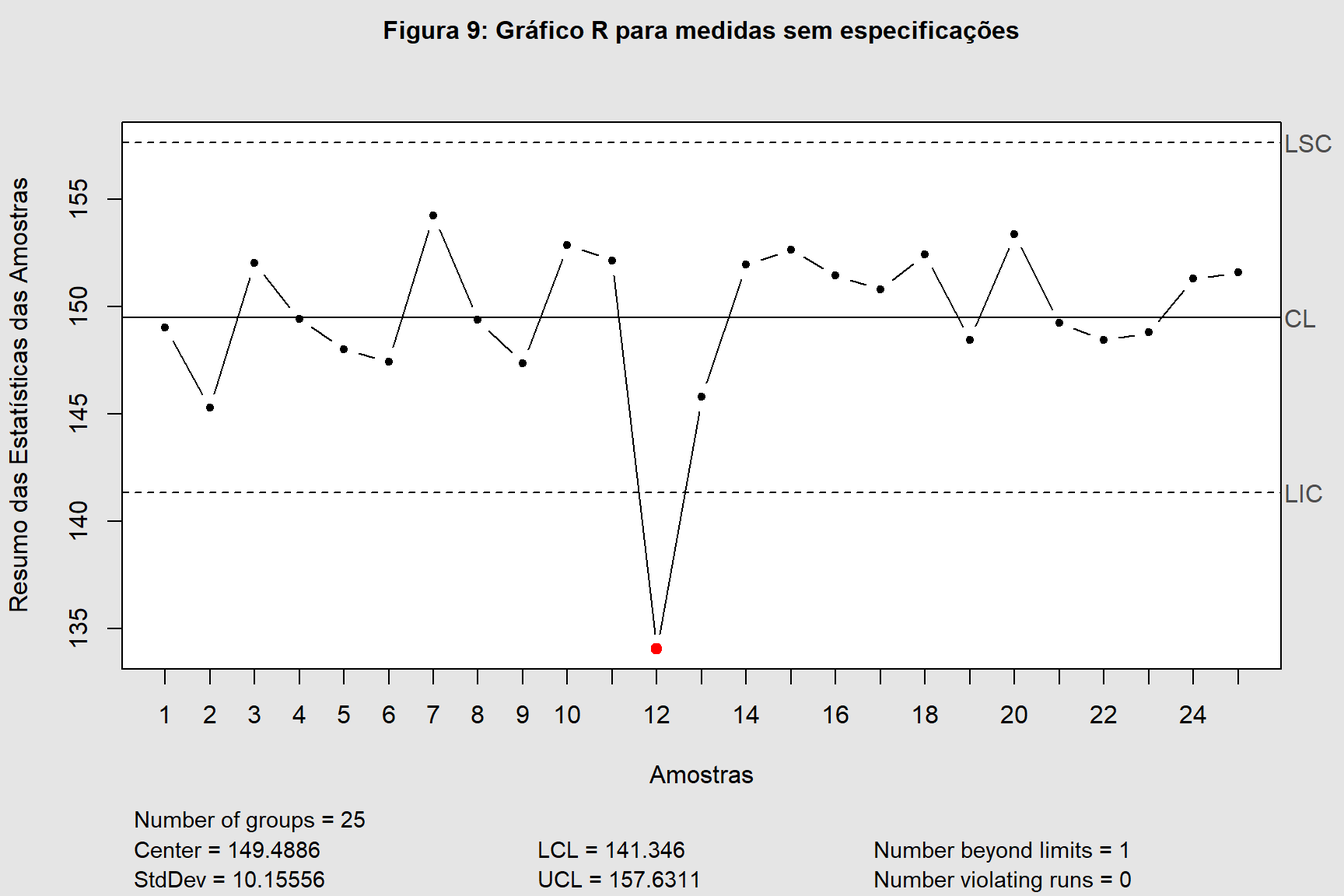
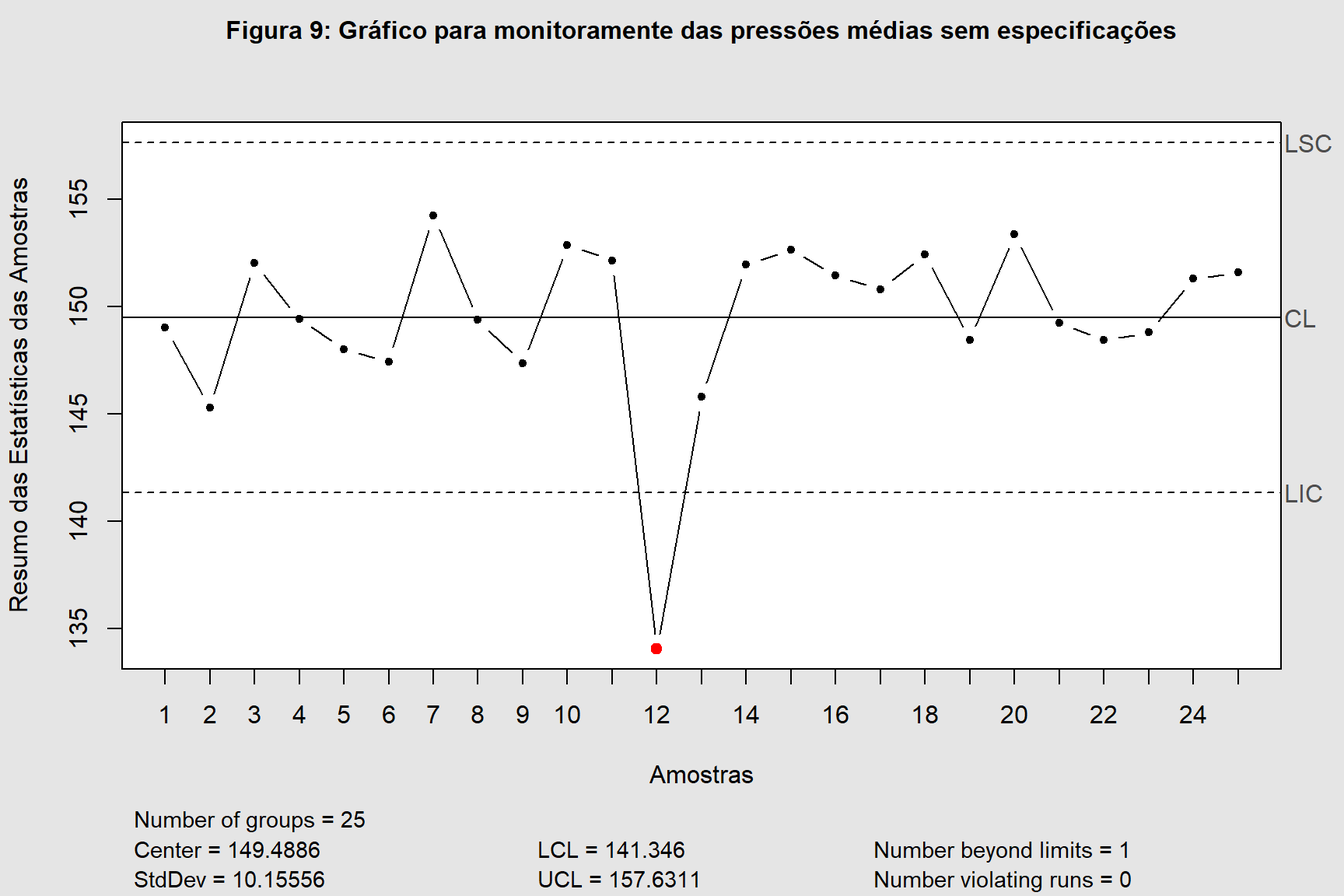
Tradução dos enunciados das questões 6 e 7.

Changed region(s): [[0.1562, 0.0, 0.875, 0.0625]]

diff --git a/L2.html b/L2.html
@@ -109,13 +109,11 @@ pre > code.sourceCode > span > a:first-child::before { text-decoration: underlin
   </ul></li>
   <li><a href="#exercício-4" id="toc-exercício-4" class="nav-link" data-scroll-target="#exercício-4">Exercício 4</a>
   <ul>
-  <li><a href="#item-4a." id="toc-item-4a." class="nav-link" data-scroll-target="#item-4a.">Item 4a.</a></li>
-  <li><a href="#item-4b." id="toc-item-4b." class="nav-link" data-scroll-target="#item-4b.">Item 4b.</a></li>
+  <li><a href="#solução-3" id="toc-solução-3" class="nav-link" data-scroll-target="#solução-3">Solução</a></li>
   </ul></li>
   <li><a href="#exercício-5" id="toc-exercício-5" class="nav-link" data-scroll-target="#exercício-5">Exercício 5</a>
   <ul>
-  <li><a href="#item-5a." id="toc-item-5a." class="nav-link" data-scroll-target="#item-5a.">Item 5a.</a></li>
-  <li><a href="#item-5b." id="toc-item-5b." class="nav-link" data-scroll-target="#item-5b.">Item 5b.</a></li>
+  <li><a href="#solução-4" id="toc-solução-4" class="nav-link" data-scroll-target="#solução-4">Solução</a></li>
   </ul></li>
   <li><a href="#exercício-6" id="toc-exercício-6" class="nav-link" data-scroll-target="#exercício-6">Exercício 6</a></li>
   <li><a href="#exercício-7" id="toc-exercício-7" class="nav-link" data-scroll-target="#exercício-7">Exercício 7</a></li>
@@ -335,7 +333,7 @@ pre > code.sourceCode > span > a:first-child::before { text-decoration: underlin
 <div class="cell" data-layout-align="center">
 <details>
 <summary>Mostrar Código</summary>
-<div class="sourceCode cell-code" id="cb8"><pre class="sourceCode r code-with-copy"><code class="sourceCode r"><span id="cb8-1"><a href="#cb8-1" aria-hidden="true" tabindex="-1"></a>garrafas <span class="ot">&lt;-</span> <span class="fu">read.csv2</span>(<span class="st">"TabQ3L2.csv"</span>)</span>
+<div class="sourceCode cell-code" id="cb8"><pre class="sourceCode r code-with-copy"><code class="sourceCode r"><span id="cb8-1"><a href="#cb8-1" aria-hidden="true" tabindex="-1"></a>garrafas <span class="ot">&lt;-</span> <span class="fu">read.csv2</span>(<span class="st">"garrafas.csv"</span>)</span>
 <span id="cb8-2"><a href="#cb8-2" aria-hidden="true" tabindex="-1"></a></span>
 <span id="cb8-3"><a href="#cb8-3" aria-hidden="true" tabindex="-1"></a><span class="co"># Gráficos sem especificação</span></span>
 <span id="cb8-4"><a href="#cb8-4" aria-hidden="true" tabindex="-1"></a>qcc<span class="sc">::</span><span class="fu">qcc</span>(garrafas[,<span class="sc">-</span><span class="dv">1</span>], <span class="at">type =</span> <span class="st">"S"</span>, <span class="at">plot =</span> F)<span class="sc">|&gt;</span></span>
@@ -355,7 +353,7 @@ pre > code.sourceCode > span > a:first-child::before { text-decoration: underlin
 <div class="sourceCode cell-code" id="cb9"><pre class="sourceCode r code-with-copy"><code class="sourceCode r"><span id="cb9-1"><a href="#cb9-1" aria-hidden="true" tabindex="-1"></a>qcc<span class="sc">::</span><span class="fu">qcc</span>(garrafas[,<span class="sc">-</span><span class="dv">1</span>], <span class="at">type =</span> <span class="st">"xbar"</span>, <span class="at">plot =</span> F)<span class="sc">|&gt;</span></span>
 <span id="cb9-2"><a href="#cb9-2" aria-hidden="true" tabindex="-1"></a>  <span class="fu">plot</span>(<span class="at">label.limits =</span> <span class="fu">c</span>(<span class="st">"LIC"</span>, <span class="st">"LSC"</span>), <span class="at">xlab =</span> <span class="st">"Amostras"</span>,</span>
 <span id="cb9-3"><a href="#cb9-3" aria-hidden="true" tabindex="-1"></a>       <span class="at">ylab =</span> <span class="st">"Resumo das Estatísticas das Amostras"</span>,</span>
-<span id="cb9-4"><a href="#cb9-4" aria-hidden="true" tabindex="-1"></a>       <span class="at">title =</span> <span class="st">"Figura 9: Gráfico R para medidas sem especificações"</span>)</span></code><button title="Copy to Clipboard" class="code-copy-button"><i class="bi"></i></button></pre></div>
+<span id="cb9-4"><a href="#cb9-4" aria-hidden="true" tabindex="-1"></a>       <span class="at">title =</span> <span class="st">"Figura 9: Gráfico para monitoramente das pressões médias sem especificações"</span>)</span></code><button title="Copy to Clipboard" class="code-copy-button"><i class="bi"></i></button></pre></div>
 </details>
 <div class="cell-output-display">
 <div class="quarto-figure quarto-figure-center">
@@ -375,7 +373,7 @@ pre > code.sourceCode > span > a:first-child::before { text-decoration: underlin
 <div class="sourceCode cell-code" id="cb10"><pre class="sourceCode r code-with-copy"><code class="sourceCode r"><span id="cb10-1"><a href="#cb10-1" aria-hidden="true" tabindex="-1"></a>qcc<span class="sc">::</span><span class="fu">qcc</span>(garrafas[<span class="sc">-</span><span class="dv">12</span>, <span class="sc">-</span><span class="dv">1</span>], <span class="at">type =</span> <span class="st">"xbar"</span>, <span class="at">plot =</span> F)<span class="sc">|&gt;</span></span>
 <span id="cb10-2"><a href="#cb10-2" aria-hidden="true" tabindex="-1"></a>  <span class="fu">plot</span>(<span class="at">label.limits =</span> <span class="fu">c</span>(<span class="st">"LIC"</span>, <span class="st">"LSC"</span>), <span class="at">xlab =</span> <span class="st">"Amostras"</span>,</span>
 <span id="cb10-3"><a href="#cb10-3" aria-hidden="true" tabindex="-1"></a>       <span class="at">ylab =</span> <span class="st">"Resumo das Estatísticas das Amostras"</span>,</span>
-<span id="cb10-4"><a href="#cb10-4" aria-hidden="true" tabindex="-1"></a>       <span class="at">title =</span> <span class="st">"Figura 10: Gráfico R para medidas sem especificações"</span>)</span></code><button title="Copy to Clipboard" class="code-copy-button"><i class="bi"></i></button></pre></div>
+<span id="cb10-4"><a href="#cb10-4" aria-hidden="true" tabindex="-1"></a>       <span class="at">title =</span> <span class="st">"Figura 10: Gráfico para monitoramente das pressões médias sem especificações"</span>)</span></code><button title="Copy to Clipboard" class="code-copy-button"><i class="bi"></i></button></pre></div>
 </details>
 <div class="cell-output-display">
 <div class="quarto-figure quarto-figure-center">
@@ -394,35 +392,136 @@ pre > code.sourceCode > span > a:first-child::before { text-decoration: underlin
 <li>O tempo de entrega do pedido segue distribuição normal?</li>
 <li>Construa gráficos de controle e analise-os. Caso não exibam controle estatístico, revise os limites de controle tentativos.</li>
 </ol>
-<p><strong>SOLUÇÃO:</strong></p>
-<section id="item-4a." class="level4">
-<h4 class="anchored" data-anchor-id="item-4a.">Item 4a.</h4>
+<section id="solução-3" class="level2">
+<h2 class="anchored" data-anchor-id="solução-3">Solução</h2>
+<div class="tabset-margin-container"></div><div class="panel-tabset">
+<ul class="nav nav-tabs" role="tablist"><li class="nav-item" role="presentation"><a class="nav-link active" id="tabset-3-1-tab" data-bs-toggle="tab" data-bs-target="#tabset-3-1" role="tab" aria-controls="tabset-3-1" aria-selected="true" href="">Item a</a></li><li class="nav-item" role="presentation"><a class="nav-link" id="tabset-3-2-tab" data-bs-toggle="tab" data-bs-target="#tabset-3-2" role="tab" aria-controls="tabset-3-2" aria-selected="false" href="">Item b</a></li></ul>
+<div class="tab-content">
+<div id="tabset-3-1" class="tab-pane active" role="tabpanel" aria-labelledby="tabset-3-1-tab">
 <div class="cell" data-layout-align="center">
+<details>
+<summary>Mostrar Código</summary>
+<div class="sourceCode cell-code" id="cb11"><pre class="sourceCode r code-with-copy"><code class="sourceCode r"><span id="cb11-1"><a href="#cb11-1" aria-hidden="true" tabindex="-1"></a>tempo <span class="ot">&lt;-</span> <span class="fu">read.csv2</span>(<span class="st">"fast-food.csv"</span>)</span>
+<span id="cb11-2"><a href="#cb11-2" aria-hidden="true" tabindex="-1"></a></span>
+<span id="cb11-3"><a href="#cb11-3" aria-hidden="true" tabindex="-1"></a>test <span class="ot">&lt;-</span> <span class="fu">shapiro.test</span>(tempo<span class="sc">$</span>tempo_entrega)</span>
+<span id="cb11-4"><a href="#cb11-4" aria-hidden="true" tabindex="-1"></a></span>
+<span id="cb11-5"><a href="#cb11-5" aria-hidden="true" tabindex="-1"></a>result <span class="ot">&lt;-</span> <span class="fu">cbind</span>(test<span class="sc">$</span>statistic, test<span class="sc">$</span>p.value)</span>
+<span id="cb11-6"><a href="#cb11-6" aria-hidden="true" tabindex="-1"></a><span class="fu">colnames</span>(result) <span class="ot">&lt;-</span> <span class="fu">c</span>(<span class="st">"Estatística"</span>, <span class="st">"p-value"</span>)</span>
+<span id="cb11-7"><a href="#cb11-7" aria-hidden="true" tabindex="-1"></a></span>
+<span id="cb11-8"><a href="#cb11-8" aria-hidden="true" tabindex="-1"></a>result<span class="sc">|&gt;</span></span>
+<span id="cb11-9"><a href="#cb11-9" aria-hidden="true" tabindex="-1"></a>  DT<span class="sc">::</span><span class="fu">datatable</span>(</span>
+<span id="cb11-10"><a href="#cb11-10" aria-hidden="true" tabindex="-1"></a>    <span class="at">caption =</span> <span class="st">"Tabela 2: Resultado do teste de normalidade de Shapiro-Wilk."</span>,</span>
+<span id="cb11-11"><a href="#cb11-11" aria-hidden="true" tabindex="-1"></a>    <span class="at">extensions =</span> <span class="st">'FixedHeader'</span>, <span class="at">rownames =</span> F,</span>
+<span id="cb11-12"><a href="#cb11-12" aria-hidden="true" tabindex="-1"></a>    <span class="at">options =</span> <span class="fu">list</span>(<span class="at">dom =</span> <span class="st">'t'</span>, <span class="at">fixedHeader =</span> F, <span class="at">autoWidth =</span> F,</span>
+<span id="cb11-13"><a href="#cb11-13" aria-hidden="true" tabindex="-1"></a>                   <span class="at">columnDefs =</span> </span>
+<span id="cb11-14"><a href="#cb11-14" aria-hidden="true" tabindex="-1"></a>                     <span class="fu">list</span>(</span>
+<span id="cb11-15"><a href="#cb11-15" aria-hidden="true" tabindex="-1"></a>                       <span class="fu">list</span>(<span class="at">className =</span> <span class="st">'dt-center'</span>, <span class="at">targets =</span> <span class="fu">c</span>(<span class="dv">0</span><span class="sc">:</span><span class="dv">1</span>))))</span>
+<span id="cb11-16"><a href="#cb11-16" aria-hidden="true" tabindex="-1"></a>  )<span class="sc">|&gt;</span></span>
+<span id="cb11-17"><a href="#cb11-17" aria-hidden="true" tabindex="-1"></a>  DT<span class="sc">::</span><span class="fu">formatRound</span>(<span class="at">columns =</span> <span class="fu">c</span>(<span class="dv">0</span><span class="sc">:</span><span class="dv">1</span>), <span class="at">digits =</span> <span class="dv">4</span>, <span class="at">mark =</span> <span class="st">"."</span>, <span class="at">dec.mark =</span> <span class="st">","</span>)</span></code><button title="Copy to Clipboard" class="code-copy-button"><i class="bi"></i></button></pre></div>
+</details>
 <div class="cell-output-display">
 
-<div class="datatables html-widget html-fill-item-overflow-hidden html-fill-item" id="htmlwidget-d408a674e82a832f82cd" style="width:100%;height:auto;"></div>
-<script type="application/json" data-for="htmlwidget-d408a674e82a832f82cd">{"x":{"filter":"none","vertical":false,"extensions":["FixedHeader"],"caption":"<caption>Tabela 2: Resultado do teste de normalidade de Shapiro-Wilk.<\/caption>","data":[[0.966134252954202],[0.439488871198518]],"container":"<table class=\"display\">\n  <thead>\n    <tr>\n      <th>Estatística<\/th>\n      <th>p-value<\/th>\n    <\/tr>\n  <\/thead>\n<\/table>","options":{"dom":"t","fixedHeader":false,"autoWidth":false,"columnDefs":[{"targets":-1,"render":"function(data, type, row, meta) {\n    return type !== 'display' ? data : DTWidget.formatRound(data, 4, 3, \".\", \",\", null);\n  }"},{"targets":0,"render":"function(data, type, row, meta) {\n    return type !== 'display' ? data : DTWidget.formatRound(data, 4, 3, \".\", \",\", null);\n  }"},{"className":"dt-center","targets":[0,1]}],"order":[],"orderClasses":false}},"evals":["options.columnDefs.0.render","options.columnDefs.1.render"],"jsHooks":[]}</script>
+<div class="datatables html-widget html-fill-item-overflow-hidden html-fill-item" id="htmlwidget-f4895efb377dd4b09d7f" style="width:100%;height:auto;"></div>
+<script type="application/json" data-for="htmlwidget-f4895efb377dd4b09d7f">{"x":{"filter":"none","vertical":false,"extensions":["FixedHeader"],"caption":"<caption>Tabela 2: Resultado do teste de normalidade de Shapiro-Wilk.<\/caption>","data":[[0.966134252954202],[0.439488871198518]],"container":"<table class=\"display\">\n  <thead>\n    <tr>\n      <th>Estatística<\/th>\n      <th>p-value<\/th>\n    <\/tr>\n  <\/thead>\n<\/table>","options":{"dom":"t","fixedHeader":false,"autoWidth":false,"columnDefs":[{"targets":-1,"render":"function(data, type, row, meta) {\n    return type !== 'display' ? data : DTWidget.formatRound(data, 4, 3, \".\", \",\", null);\n  }"},{"targets":0,"render":"function(data, type, row, meta) {\n    return type !== 'display' ? data : DTWidget.formatRound(data, 4, 3, \".\", \",\", null);\n  }"},{"className":"dt-center","targets":[0,1]}],"order":[],"orderClasses":false}},"evals":["options.columnDefs.0.render","options.columnDefs.1.render"],"jsHooks":[]}</script>
 </div>
+<details>
+<summary>Mostrar Código</summary>
+<div class="sourceCode cell-code" id="cb12"><pre class="sourceCode r code-with-copy"><code class="sourceCode r"><span id="cb12-1"><a href="#cb12-1" aria-hidden="true" tabindex="-1"></a><span class="fu">par</span>(<span class="at">mfrow=</span><span class="fu">c</span>(<span class="dv">1</span>,<span class="dv">2</span>))</span>
+<span id="cb12-2"><a href="#cb12-2" aria-hidden="true" tabindex="-1"></a></span>
+<span id="cb12-3"><a href="#cb12-3" aria-hidden="true" tabindex="-1"></a><span class="fu">hist</span>(tempo[,<span class="sc">-</span><span class="dv">1</span>], <span class="at">ylab =</span> <span class="st">"Frequência"</span>, <span class="at">main =</span> <span class="st">"Histograma"</span>, <span class="at">xlab =</span> <span class="st">"X"</span>)</span>
+<span id="cb12-4"><a href="#cb12-4" aria-hidden="true" tabindex="-1"></a></span>
+<span id="cb12-5"><a href="#cb12-5" aria-hidden="true" tabindex="-1"></a><span class="fu">qqnorm</span>(tempo[,<span class="sc">-</span><span class="dv">1</span>], <span class="at">xlab =</span> <span class="st">"Quantis normais"</span>, <span class="at">ylab =</span> <span class="st">"X"</span>)</span>
+<span id="cb12-6"><a href="#cb12-6" aria-hidden="true" tabindex="-1"></a><span class="fu">qqline</span>(tempo[,<span class="sc">-</span><span class="dv">1</span>], <span class="at">col =</span> <span class="st">"steelblue"</span>, <span class="at">lwd =</span> <span class="dv">2</span>)</span></code><button title="Copy to Clipboard" class="code-copy-button"><i class="bi"></i></button></pre></div>
+</details>
 <div class="cell-output-display">
 <div class="quarto-figure quarto-figure-center">
 <figure class="figure">
-<p><img src="L2_files/figure-html/unnamed-chunk-3-2.png" class="img-fluid figure-img" width="864"></p>
+<p><img src="L2_files/figure-html/q4a-2.png" class="img-fluid figure-img" width="864"></p>
 </figure>
 </div>
 </div>
+<details>
+<summary>Mostrar Código</summary>
+<div class="sourceCode cell-code" id="cb13"><pre class="sourceCode r code-with-copy"><code class="sourceCode r"><span id="cb13-1"><a href="#cb13-1" aria-hidden="true" tabindex="-1"></a><span class="fu">par</span>(<span class="at">mfrow=</span><span class="fu">c</span>(<span class="dv">1</span>,<span class="dv">1</span>))</span></code><button title="Copy to Clipboard" class="code-copy-button"><i class="bi"></i></button></pre></div>
+</details>
 </div>
 <p>&nbsp;</p>
 <p>Com base no teste de normalidade realizado é possível concluir a existência de normalidade, através da não rejeição da hipótese nula (<span class="math inline">\(H_0\)</span>) que afirma normalidade dos dados. O resultado do teste é confirmado através dos gráficos gerados, sendo possível identificar uma certa simetria entre os dados pelo Histograma bem como a normalidade por meio do QQ Plot.</p>
-</section>
-<section id="item-4b." class="level4">
-<h4 class="anchored" data-anchor-id="item-4b.">Item 4b.</h4>
+</div>
+<div id="tabset-3-2" class="tab-pane" role="tabpanel" aria-labelledby="tabset-3-2-tab">
 <p>Tendo em vista que a quantidade de observações por amostra é igual a 1, o gráfico <strong>Gráfico R</strong> é o mais recomendado para análise solicitada.</p>
 <div class="cell" data-layout-align="center">
+<details>
+<summary>Mostrar Código</summary>
+<div class="sourceCode cell-code" id="cb14"><pre class="sourceCode r code-with-copy"><code class="sourceCode r"><span id="cb14-1"><a href="#cb14-1" aria-hidden="true" tabindex="-1"></a>m<span class="ot">=</span><span class="dv">30</span>; n<span class="ot">=</span><span class="dv">1</span>; mn<span class="ot">=</span>m<span class="sc">*</span>n; mi<span class="ot">=</span><span class="dv">200</span>; sigma<span class="ot">=</span><span class="dv">10</span>; <span class="fu">set.seed</span>(<span class="dv">1287</span>); x<span class="ot">=</span><span class="fu">round</span>(<span class="fu">rnorm</span>(mn,mi,sigma),<span class="dv">2</span>);</span>
+<span id="cb14-2"><a href="#cb14-2" aria-hidden="true" tabindex="-1"></a>x[<span class="dv">28</span><span class="sc">:</span><span class="dv">30</span>]<span class="ot">=</span>x[<span class="dv">28</span><span class="sc">:</span><span class="dv">30</span>]<span class="sc">+</span><span class="fl">2.5</span><span class="sc">*</span>sigma; x<span class="ot">=</span><span class="fu">round</span>(x,<span class="dv">0</span>)</span>
+<span id="cb14-3"><a href="#cb14-3" aria-hidden="true" tabindex="-1"></a></span>
+<span id="cb14-4"><a href="#cb14-4" aria-hidden="true" tabindex="-1"></a>xR2<span class="ot">=</span><span class="cf">function</span>(m,n,y){</span>
+<span id="cb14-5"><a href="#cb14-5" aria-hidden="true" tabindex="-1"></a>  <span class="cf">if</span> (n<span class="sc">&gt;</span><span class="dv">1</span>) {</span>
+<span id="cb14-6"><a href="#cb14-6" aria-hidden="true" tabindex="-1"></a>    amplit<span class="ot">=</span><span class="fu">numeric</span>(m)   </span>
+<span id="cb14-7"><a href="#cb14-7" aria-hidden="true" tabindex="-1"></a>    mat<span class="ot">=</span><span class="fu">matrix</span>(y,m,n,<span class="at">byrow=</span>T)</span>
+<span id="cb14-8"><a href="#cb14-8" aria-hidden="true" tabindex="-1"></a>    media<span class="ot">=</span><span class="fu">apply</span>(mat,<span class="dv">1</span>,mean)</span>
+<span id="cb14-9"><a href="#cb14-9" aria-hidden="true" tabindex="-1"></a>    <span class="cf">for</span> (i <span class="cf">in</span> <span class="dv">1</span><span class="sc">:</span>m) amplit[i]<span class="ot">=</span><span class="fu">max</span>(mat[i,])<span class="sc">-</span><span class="fu">min</span>(mat[i,])</span>
+<span id="cb14-10"><a href="#cb14-10" aria-hidden="true" tabindex="-1"></a>    x2barras<span class="ot">=</span><span class="fu">mean</span>(media)</span>
+<span id="cb14-11"><a href="#cb14-11" aria-hidden="true" tabindex="-1"></a>    Rbarra<span class="ot">=</span><span class="fu">mean</span>(amplit) </span>
+<span id="cb14-12"><a href="#cb14-12" aria-hidden="true" tabindex="-1"></a>    d2<span class="ot">=</span><span class="fu">c</span>(<span class="fl">1.1296</span>,<span class="fl">1.6918</span>,<span class="fl">2.0535</span>,<span class="fl">2.3248</span>,<span class="fl">2.5404</span>,<span class="fl">2.7074</span>,<span class="fl">2.8501</span>,</span>
+<span id="cb14-13"><a href="#cb14-13" aria-hidden="true" tabindex="-1"></a>         <span class="fl">2.9677</span>,<span class="fl">3.0737</span>,<span class="fl">3.1696</span>)</span>
+<span id="cb14-14"><a href="#cb14-14" aria-hidden="true" tabindex="-1"></a>    d3<span class="ot">=</span><span class="fu">c</span>(.<span class="dv">8541</span>,.<span class="dv">8909</span>,.<span class="dv">8800</span>,.<span class="dv">8674</span>,.<span class="dv">8508</span>,.<span class="dv">8326</span>,.<span class="dv">8209</span>,</span>
+<span id="cb14-15"><a href="#cb14-15" aria-hidden="true" tabindex="-1"></a>         .<span class="dv">8102</span>,.<span class="dv">7978</span>,.<span class="dv">7890</span>)</span>
+<span id="cb14-16"><a href="#cb14-16" aria-hidden="true" tabindex="-1"></a>    LIC1<span class="ot">=</span>x2barras<span class="dv">-3</span><span class="sc">*</span>Rbarra<span class="sc">/</span>(d2[n<span class="dv">-1</span>]<span class="sc">*</span><span class="fu">sqrt</span>(n))</span>
+<span id="cb14-17"><a href="#cb14-17" aria-hidden="true" tabindex="-1"></a>    LSC1<span class="ot">=</span>x2barras<span class="sc">+</span><span class="dv">3</span><span class="sc">*</span>Rbarra<span class="sc">/</span>(d2[n<span class="dv">-1</span>]<span class="sc">*</span><span class="fu">sqrt</span>(n))</span>
+<span id="cb14-18"><a href="#cb14-18" aria-hidden="true" tabindex="-1"></a>    LIC2<span class="ot">=</span>Rbarra<span class="dv">-3</span><span class="sc">*</span>d3[n<span class="dv">-1</span>]<span class="sc">*</span>Rbarra<span class="sc">/</span>d2[n<span class="dv">-1</span>]</span>
+<span id="cb14-19"><a href="#cb14-19" aria-hidden="true" tabindex="-1"></a>    LSC2<span class="ot">=</span>Rbarra<span class="sc">+</span><span class="dv">3</span><span class="sc">*</span>d3[n<span class="dv">-1</span>]<span class="sc">*</span>Rbarra<span class="sc">/</span>d2[n<span class="dv">-1</span>]</span>
+<span id="cb14-20"><a href="#cb14-20" aria-hidden="true" tabindex="-1"></a>    <span class="cf">if</span> (LIC2 <span class="sc">&lt;</span> <span class="dv">0</span>) LIC2<span class="ot">=</span><span class="dv">0</span></span>
+<span id="cb14-21"><a href="#cb14-21" aria-hidden="true" tabindex="-1"></a> </span>
+<span id="cb14-22"><a href="#cb14-22" aria-hidden="true" tabindex="-1"></a>  } <span class="cf">else</span> {</span>
+<span id="cb14-23"><a href="#cb14-23" aria-hidden="true" tabindex="-1"></a>    amplit<span class="ot">=</span><span class="fu">numeric</span>(m<span class="dv">-1</span>)</span>
+<span id="cb14-24"><a href="#cb14-24" aria-hidden="true" tabindex="-1"></a>    media<span class="ot">=</span>y</span>
+<span id="cb14-25"><a href="#cb14-25" aria-hidden="true" tabindex="-1"></a>    <span class="cf">for</span> (i <span class="cf">in</span> <span class="dv">2</span><span class="sc">:</span>m) amplit[i<span class="dv">-1</span>]<span class="ot">=</span><span class="fu">sqrt</span>((y[i]<span class="sc">-</span>y[i<span class="dv">-1</span>])<span class="sc">^</span><span class="dv">2</span>)</span>
+<span id="cb14-26"><a href="#cb14-26" aria-hidden="true" tabindex="-1"></a>    x2barras<span class="ot">=</span><span class="fu">mean</span>(media)</span>
+<span id="cb14-27"><a href="#cb14-27" aria-hidden="true" tabindex="-1"></a>    Rbarra<span class="ot">=</span><span class="fu">mean</span>(amplit) </span>
+<span id="cb14-28"><a href="#cb14-28" aria-hidden="true" tabindex="-1"></a>    d2<span class="ot">=</span><span class="fl">1.1296</span></span>
+<span id="cb14-29"><a href="#cb14-29" aria-hidden="true" tabindex="-1"></a>    d3<span class="ot">=</span>.<span class="dv">8541</span></span>
+<span id="cb14-30"><a href="#cb14-30" aria-hidden="true" tabindex="-1"></a>    LIC1<span class="ot">=</span>x2barras<span class="dv">-3</span><span class="sc">*</span>Rbarra<span class="sc">/</span>(d2<span class="sc">*</span><span class="fu">sqrt</span>(n))</span>
+<span id="cb14-31"><a href="#cb14-31" aria-hidden="true" tabindex="-1"></a>    LSC1<span class="ot">=</span>x2barras<span class="sc">+</span><span class="dv">3</span><span class="sc">*</span>Rbarra<span class="sc">/</span>(d2<span class="sc">*</span><span class="fu">sqrt</span>(n))</span>
+<span id="cb14-32"><a href="#cb14-32" aria-hidden="true" tabindex="-1"></a>    LIC2<span class="ot">=</span>Rbarra<span class="dv">-3</span><span class="sc">*</span>d3<span class="sc">*</span>Rbarra<span class="sc">/</span>d2</span>
+<span id="cb14-33"><a href="#cb14-33" aria-hidden="true" tabindex="-1"></a>    LSC2<span class="ot">=</span>Rbarra<span class="sc">+</span><span class="dv">3</span><span class="sc">*</span>d3<span class="sc">*</span>Rbarra<span class="sc">/</span>d2</span>
+<span id="cb14-34"><a href="#cb14-34" aria-hidden="true" tabindex="-1"></a>    <span class="cf">if</span> (LIC2 <span class="sc">&lt;</span> <span class="dv">0</span>) LIC2<span class="ot">=</span><span class="dv">0</span></span>
+<span id="cb14-35"><a href="#cb14-35" aria-hidden="true" tabindex="-1"></a>  }</span>
+<span id="cb14-36"><a href="#cb14-36" aria-hidden="true" tabindex="-1"></a>  <span class="fu">par</span>(<span class="at">mfrow=</span><span class="fu">c</span>(<span class="dv">2</span>,<span class="dv">1</span>))</span>
+<span id="cb14-37"><a href="#cb14-37" aria-hidden="true" tabindex="-1"></a>  amostra1<span class="ot">=</span><span class="fu">matrix</span>(<span class="fu">rep</span>(<span class="fu">seq</span>(<span class="dv">1</span>,m),<span class="dv">4</span>),m,<span class="dv">4</span>,<span class="at">byrow=</span>F)</span>
+<span id="cb14-38"><a href="#cb14-38" aria-hidden="true" tabindex="-1"></a>  <span class="cf">if</span> (n<span class="sc">&gt;</span><span class="dv">1</span>) amostra2<span class="ot">=</span>amostra1 <span class="cf">else</span> amostra2<span class="ot">=</span>amostra1[<span class="sc">-</span><span class="dv">1</span>,]</span>
+<span id="cb14-39"><a href="#cb14-39" aria-hidden="true" tabindex="-1"></a>  xbar<span class="ot">=</span><span class="fu">cbind</span>(<span class="fu">rep</span>(x2barras,m),<span class="fu">rep</span>(LIC1,m),<span class="fu">rep</span>(LSC1,m),media)</span>
+<span id="cb14-40"><a href="#cb14-40" aria-hidden="true" tabindex="-1"></a>  <span class="cf">if</span> (n<span class="sc">&gt;</span><span class="dv">1</span>) {</span>
+<span id="cb14-41"><a href="#cb14-41" aria-hidden="true" tabindex="-1"></a>    rbar<span class="ot">=</span><span class="fu">cbind</span>(<span class="fu">rep</span>(Rbarra,m),<span class="fu">rep</span>(LIC2,m),<span class="fu">rep</span>(LSC2,m),amplit) </span>
+<span id="cb14-42"><a href="#cb14-42" aria-hidden="true" tabindex="-1"></a>  } <span class="cf">else</span> rbar<span class="ot">=</span><span class="fu">cbind</span>(<span class="fu">rep</span>(Rbarra,m<span class="dv">-1</span>),<span class="fu">rep</span>(LIC2,m<span class="dv">-1</span>),</span>
+<span id="cb14-43"><a href="#cb14-43" aria-hidden="true" tabindex="-1"></a>                    <span class="fu">rep</span>(LSC2,m<span class="dv">-1</span>),amplit)</span>
+<span id="cb14-44"><a href="#cb14-44" aria-hidden="true" tabindex="-1"></a>  <span class="fu">matplot</span>(amostra2,rbar,<span class="at">type=</span><span class="st">"o"</span>,<span class="at">ylab=</span><span class="st">"Amplitude"</span>,</span>
+<span id="cb14-45"><a href="#cb14-45" aria-hidden="true" tabindex="-1"></a>          <span class="at">col=</span><span class="fu">c</span>(<span class="st">"black"</span>,<span class="st">"red"</span>,<span class="st">"red"</span>, <span class="st">"blue"</span>),</span>
+<span id="cb14-46"><a href="#cb14-46" aria-hidden="true" tabindex="-1"></a>          <span class="at">ylim=</span><span class="fu">c</span>(<span class="fu">min</span>(rbar),<span class="fu">max</span>(rbar)),</span>
+<span id="cb14-47"><a href="#cb14-47" aria-hidden="true" tabindex="-1"></a>          <span class="at">xlab=</span><span class="st">"Amostras"</span>,<span class="at">main=</span><span class="st">"Gráfico R"</span>,<span class="at">pch=</span><span class="dv">20</span>, <span class="at">lty=</span><span class="dv">1</span>, <span class="at">lwd=</span><span class="dv">2</span>)</span>
+<span id="cb14-48"><a href="#cb14-48" aria-hidden="true" tabindex="-1"></a>  <span class="fu">matplot</span>(amostra1,xbar,<span class="at">type=</span><span class="st">"o"</span>,<span class="at">ylab=</span><span class="st">"Média"</span>,<span class="at">xlab=</span><span class="st">"Amostras"</span>,</span>
+<span id="cb14-49"><a href="#cb14-49" aria-hidden="true" tabindex="-1"></a>          <span class="at">main=</span><span class="fu">expression</span>(<span class="fu">paste</span>(<span class="st">"Gráfico "</span> <span class="sc">*</span> <span class="fu">bar</span>(x))),<span class="at">col=</span><span class="fu">c</span>(<span class="st">"black"</span>,<span class="st">"red"</span>,<span class="st">"red"</span>,</span>
+<span id="cb14-50"><a href="#cb14-50" aria-hidden="true" tabindex="-1"></a>                                                            <span class="st">"blue"</span>),<span class="at">ylim=</span><span class="fu">c</span>(<span class="fu">min</span>(xbar),<span class="fu">max</span>(xbar)),<span class="at">pch=</span><span class="dv">20</span>, <span class="at">lty=</span><span class="dv">1</span>, <span class="at">lwd=</span><span class="dv">2</span>)</span>
+<span id="cb14-51"><a href="#cb14-51" aria-hidden="true" tabindex="-1"></a>  </span>
+<span id="cb14-52"><a href="#cb14-52" aria-hidden="true" tabindex="-1"></a>  <span class="co"># out=rbind(round(xbar[1,1:3],2),round(rbar[1,1:3],2))</span></span>
+<span id="cb14-53"><a href="#cb14-53" aria-hidden="true" tabindex="-1"></a>  <span class="co"># colnames(out)=c("Referência","LIC","LSC")</span></span>
+<span id="cb14-54"><a href="#cb14-54" aria-hidden="true" tabindex="-1"></a>  out <span class="ot">&lt;&lt;-</span> <span class="fu">rbind</span>(<span class="fu">round</span>(rbar[<span class="dv">1</span>,<span class="dv">1</span><span class="sc">:</span><span class="dv">3</span>],<span class="dv">2</span>), <span class="fu">round</span>(xbar[<span class="dv">1</span>,<span class="dv">1</span><span class="sc">:</span><span class="dv">3</span>],<span class="dv">2</span>))</span>
+<span id="cb14-55"><a href="#cb14-55" aria-hidden="true" tabindex="-1"></a>  <span class="fu">colnames</span>(out) <span class="ot">&lt;&lt;-</span> <span class="fu">c</span>(<span class="st">"Referência"</span>,<span class="st">"LIC"</span>,<span class="st">"LSC"</span>)</span>
+<span id="cb14-56"><a href="#cb14-56" aria-hidden="true" tabindex="-1"></a>  <span class="fu">rownames</span>(out) <span class="ot">&lt;&lt;-</span> <span class="fu">c</span>(<span class="st">"R"</span>, <span class="st">"Xbarra"</span>)</span>
+<span id="cb14-57"><a href="#cb14-57" aria-hidden="true" tabindex="-1"></a>  <span class="co"># out</span></span>
+<span id="cb14-58"><a href="#cb14-58" aria-hidden="true" tabindex="-1"></a>}</span>
+<span id="cb14-59"><a href="#cb14-59" aria-hidden="true" tabindex="-1"></a></span>
+<span id="cb14-60"><a href="#cb14-60" aria-hidden="true" tabindex="-1"></a><span class="fu">xR2</span>(m,n,x)</span></code><button title="Copy to Clipboard" class="code-copy-button"><i class="bi"></i></button></pre></div>
+</details>
 <div class="cell-output-display">
 <div class="quarto-figure quarto-figure-center">
 <figure class="figure">
-<p><img src="L2_files/figure-html/unnamed-chunk-4-1.png" class="img-fluid figure-img" width="864"></p>
+<p><img src="L2_files/figure-html/q4b-1.png" class="img-fluid figure-img" width="864"></p>
 </figure>
+</div>
+</div>
+</div>
 </div>
 </div>
 </div>
@@ -435,21 +534,31 @@ pre > code.sourceCode > span > a:first-child::before { text-decoration: underlin
 <li>Construa gráficos de controle usando esses dados. O processo está sob controle estatístico?</li>
 <li>Supondo que tenha sido identificada uma causa responsável pela falta de controle pontual das amostras identificadas no item anterior, refaça a análise sem tais amostras e descubra se há mais sinais de descontrole do processo.</li>
 </ol>
-<p><strong>SOLUÇÃO:</strong></p>
-<section id="item-5a." class="level4">
-<h4 class="anchored" data-anchor-id="item-5a.">Item 5a.</h4>
+<section id="solução-4" class="level2">
+<h2 class="anchored" data-anchor-id="solução-4">Solução</h2>
+<div class="tabset-margin-container"></div><div class="panel-tabset">
+<ul class="nav nav-tabs" role="tablist"><li class="nav-item" role="presentation"><a class="nav-link active" id="tabset-4-1-tab" data-bs-toggle="tab" data-bs-target="#tabset-4-1" role="tab" aria-controls="tabset-4-1" aria-selected="true" href="">Item a</a></li><li class="nav-item" role="presentation"><a class="nav-link" id="tabset-4-2-tab" data-bs-toggle="tab" data-bs-target="#tabset-4-2" role="tab" aria-controls="tabset-4-2" aria-selected="false" href="">Item b.</a></li></ul>
+<div class="tab-content">
+<div id="tabset-4-1" class="tab-pane active" role="tabpanel" aria-labelledby="tabset-4-1-tab">
 <div class="cell">
 <div class="cell-output-display">
-<p><img src="L2_files/figure-html/unnamed-chunk-5-1.png" class="img-fluid" width="864"></p>
+<p><img src="L2_files/figure-html/unnamed-chunk-3-1.png" class="img-fluid" width="864"></p>
 </div>
 </div>
-</section>
-<section id="item-5b." class="level4">
-<h4 class="anchored" data-anchor-id="item-5b.">Item 5b.</h4>
+</div>
+<div id="tabset-4-2" class="tab-pane" role="tabpanel" aria-labelledby="tabset-4-2-tab">
+
+</div>
+</div>
+</div>
 </section>
 </section>
 <section id="exercício-6" class="level1">
 <h1>Exercício 6</h1>
+<div class="tabset-margin-container"></div><div class="panel-tabset">
+<ul class="nav nav-tabs" role="tablist"><li class="nav-item" role="presentation"><a class="nav-link active" id="tabset-5-1-tab" data-bs-toggle="tab" data-bs-target="#tabset-5-1" role="tab" aria-controls="tabset-5-1" aria-selected="true" href="">Enunciado Original</a></li><li class="nav-item" role="presentation"><a class="nav-link" id="tabset-5-2-tab" data-bs-toggle="tab" data-bs-target="#tabset-5-2" role="tab" aria-controls="tabset-5-2" aria-selected="false" href="">Tradução</a></li></ul>
+<div class="tab-content">
+<div id="tabset-5-1" class="tab-pane active" role="tabpanel" aria-labelledby="tabset-5-1-tab">
 <p>(Cano et al., 2012) In the construction of a building, a critical to quality (CTQ) characteristic might be the fulfillment of a deadline, as unfulfillment can lead to failure. The Six Sigma team identified the following events that can cause a delay in the schedule: weather, errors in planning, delay of suppliers, inadequate operators, customer specifications/delays, defects in materials, and permissions.</p>
 <p>Create a cause-and-effect diagram such that:</p>
 <p>Effect: “Delay” &nbsp;<br>
@@ -458,9 +567,26 @@ Causes[1]: “Training”, “Inadequate” &nbsp;<br>
 Causes[2]: “Rain”, “Temperature”, “Wind”&nbsp;<br>
 Causes[3]: “Materials”, “Delays”, “Rework”&nbsp;<br>
 Causes[4]: “Customer”, “Permissions”, “Errors”&nbsp;</p>
+</div>
+<div id="tabset-5-2" class="tab-pane" role="tabpanel" aria-labelledby="tabset-5-2-tab">
+<p>(Cano et al., 2012) Na construção de um edifício, uma característica crítica à qualidade (CTQ) pode ser o cumprimento de um prazo, pois o não cumprimento pode levar ao fracasso. A equipe Seis Sigma identificou os seguintes eventos que podem causar atraso no cronograma: clima, erros de planejamento, atraso de fornecedores, operadores inadequados, especificações/atrasos do cliente, defeitos de materiais e permissões.</p>
+<p>Crie um diagrama de causa e efeito tal que:</p>
+<p>Efeito: “Delay”&nbsp;<br>
+Grupos: “Pessoal”, “Clima”, “Fornecedores”, “Planejamento”&nbsp;<br>
+Causas[1]: “Treinamento”, “Inadequado”&nbsp;<br>
+Causas[2]: “Chuva”, “Temperatura”, “Vento”&nbsp;<br>
+Causas[3]: “Materiais”, “Atrasos”, “Retrabalho”&nbsp;<br>
+Causas[4]: “Cliente”, “Permissões”, “Erros”</p>
+</div>
+</div>
+</div>
 </section>
 <section id="exercício-7" class="level1">
 <h1>Exercício 7</h1>
+<div class="tabset-margin-container"></div><div class="panel-tabset">
+<ul class="nav nav-tabs" role="tablist"><li class="nav-item" role="presentation"><a class="nav-link active" id="tabset-6-1-tab" data-bs-toggle="tab" data-bs-target="#tabset-6-1" role="tab" aria-controls="tabset-6-1" aria-selected="true" href="">Enunciado Original</a></li><li class="nav-item" role="presentation"><a class="nav-link" id="tabset-6-2-tab" data-bs-toggle="tab" data-bs-target="#tabset-6-2" role="tab" aria-controls="tabset-6-2" aria-selected="false" href="">Tradução</a></li></ul>
+<div class="tab-content">
+<div id="tabset-6-1" class="tab-pane active" role="tabpanel" aria-labelledby="tabset-6-1-tab">
 <p>(Cano et al., 2012) The Black Belt in the construction company of the previous example has investigated why a sampling of deadlines on projects developed in the last 2 years went unfulfilled. He has also estimated the cost of these delays for the company (larger labor force, extra payments, etc.). The number of unfulfilled deadlines and estimated cost are:</p>
 <p>Count: 5, 1, 3, 1, 2, 18, 20, 4, 15, 2, 4&nbsp;<br>
 Cost: 50, 150, 50, 10, 20, 180, 200, 10, 5, 20, 150</p>
@@ -469,6 +595,19 @@ Cost: 50, 150, 50, 10, 20, 180, 200, 10, 5, 20, 150</p>
 <li>Plot the chart for cost of error.</li>
 <li>Select the causes you must focus on to improve the construction process. Can you select them from only one of the charts?</li>
 </ol>
+</div>
+<div id="tabset-6-2" class="tab-pane" role="tabpanel" aria-labelledby="tabset-6-2-tab">
+<p>(Cano et al., 2012) O Black Belt na construtora do exemplo anterior investigou porque uma amostragem de prazos de projetos desenvolvidos nos últimos 2 anos não foi cumprida. Ele também estimou o custo desses atrasos para a empresa (maior força de trabalho, pagamentos extras, etc.). O número de prazos não cumpridos e o custo estimado são:</p>
+<p>Contagem: 5, 1, 3, 1, 2, 18, 20, 4, 15, 2, 4&nbsp;<br>
+Custo: 50, 150, 50, 10, 20, 180, 200, 10, 5, 20, 150</p>
+<ol type="a">
+<li>Faça um gráfico de Pareto por número de defeitos.</li>
+<li>Faça um gráfico do custo do erro.</li>
+<li>Selecione as causas nas quais você deve focar para melhorar o processo de construção. Você pode selecioná-los de apenas um dos gráficos?</li>
+</ol>
+</div>
+</div>
+</div>
 </section>
 
 </main>
